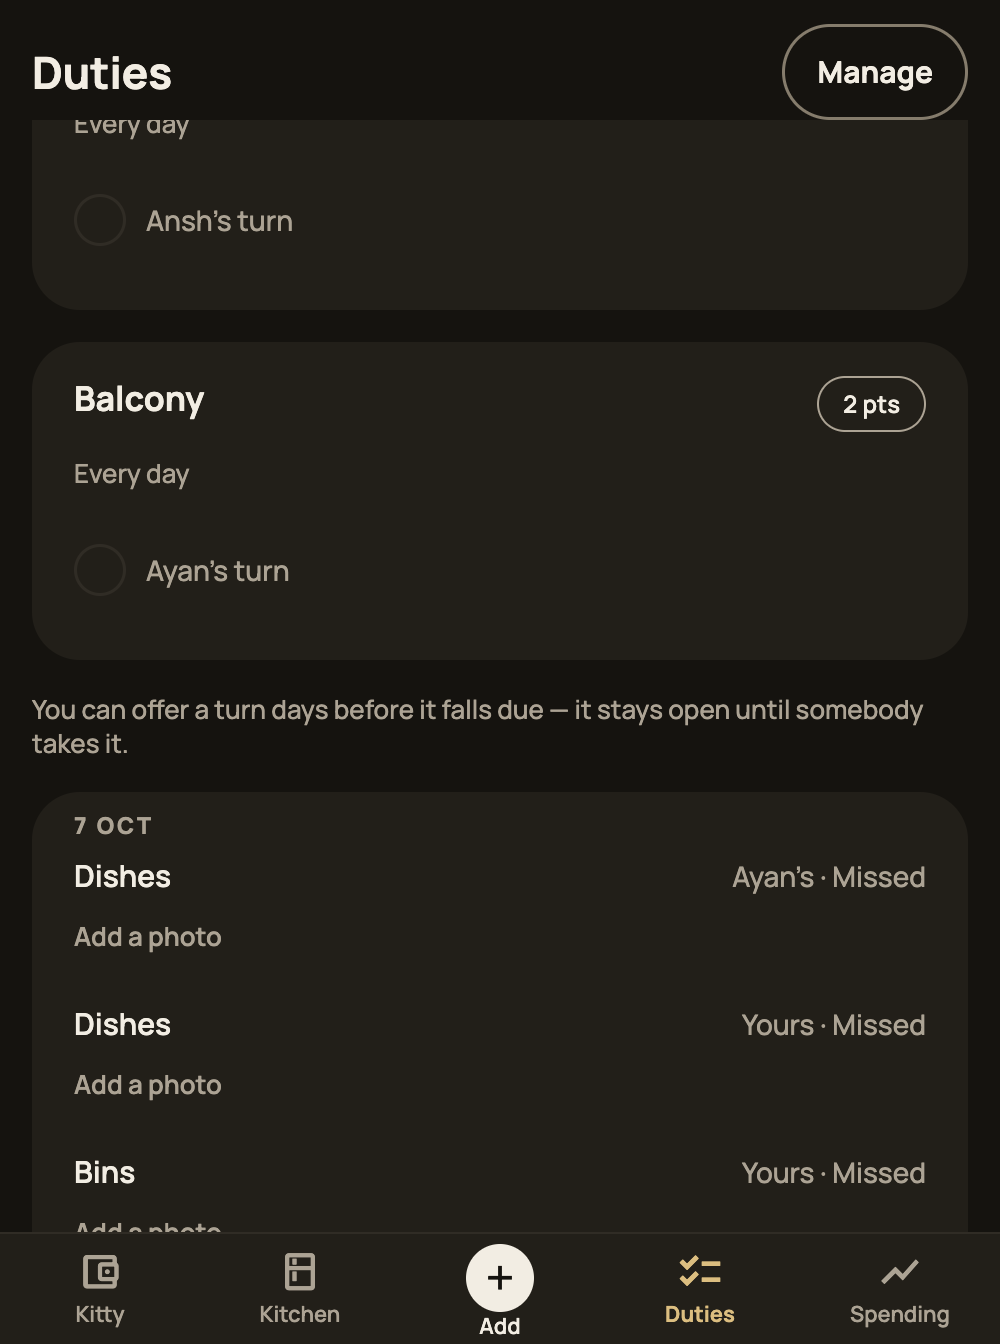
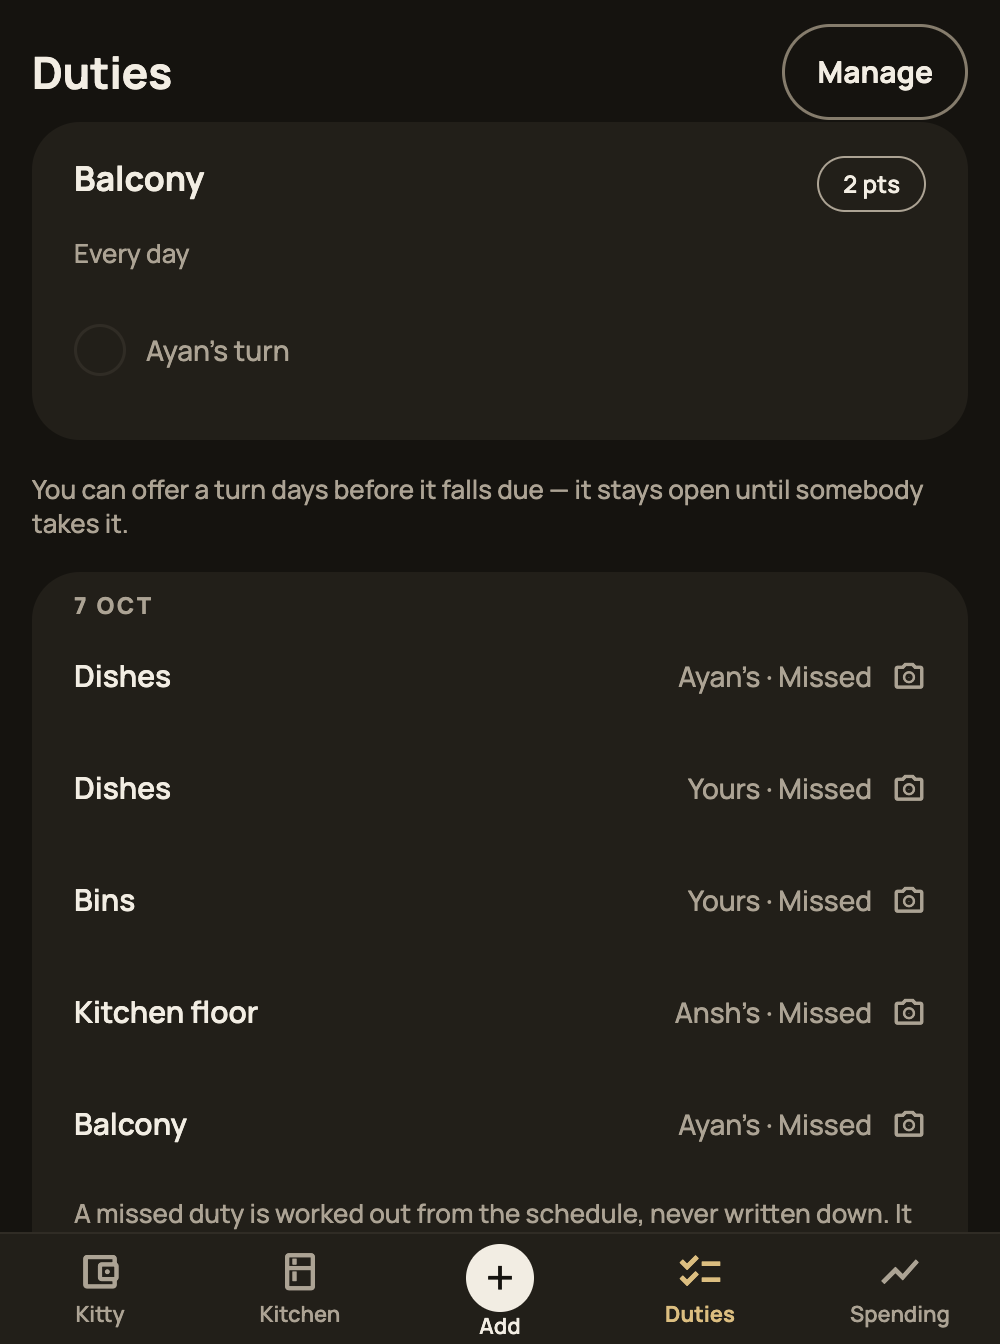
B4: every control on Duties is a real 48pt pill, not a text target wearing a label
B0 was right about the pattern it suspected: the old Skip and Swap were 48pt Pressables with a
transparent fill and NO border, and my first pass inherited half of that — a 44pt chip and an
"Add a photo" that was an icon and a word. DESIGN.md rule 7 wants at least 48pt and a pill, so
Done, Offer, Take it, Vouch and the photo all go through one Chip now, with a real `line` border
(3:1+) on the quiet ones. The reorder Edit toggle and the up/down buttons were 44pt too.

The missed block keeps its own grammar: a pill under every row turned a record of what nobody did
into five loud buttons, so the ROW is the control there, 56pt with a trailing camera, the way
kit's Row works. Edit-the-order is a button with an expanded state, not a checkbox.

Six screenshots re-shot. Also rebased onto db94f35, B0's amended tip — my diff touches none of
its three files.

diff --git a/src/app/(tabs)/duties.tsx b/src/app/(tabs)/duties.tsx
@@ -23,6 +23,7 @@ import { Block, ErrorText, Icon, Pill, Rule, Screen, SectionLabel, T, TAB_BAR, T
 const AHEAD = 4; // today plus the next three days: an offer has to work on a duty due on Thursday
 const BACK = 1; // yesterday, so a missed duty is stated once and then left alone
 const OFFER_ICON = { ios: 'arrow.up.circle', android: 'arrow_upward' };
+const CAMERA = { ios: 'camera', android: 'photo_camera' };
 
 const shift = (date: string, days: number) => new Date(Date.parse(date) + days * 86_400_000).toISOString().slice(0, 10);
 const list = (names: string[]) =>
@@ -293,20 +294,15 @@ export default function Duties() {
           </T>
         )}
         {when !== 'future' && (
-          <Pressable
-            accessibilityRole="button"
-            accessibilityLabel={`Add a photo to ${r.duty.name}, ${dayLabel(r.date)}`}
-            disabled={busy === `${card}:photo`}
-            onPress={() => addPhoto(r, slot)}
-            style={({ pressed }) => [
-              { flexDirection: 'row', alignItems: 'center', gap: 6, minHeight: 44 },
-              pressed && { opacity: 0.6 },
-            ]}>
-            <Icon name={{ ios: 'camera', android: 'photo_camera' }} size={16} color={c.muted} />
-            <T size={13} weight="600" soft>
-              {busy === `${card}:photo` ? 'Adding…' : 'Add a photo'}
-            </T>
-          </Pressable>
+          <View style={{ flexDirection: 'row' }}>
+            <Chip
+              label="Add a photo"
+              icon={CAMERA}
+              busy={busy === `${card}:photo`}
+              accessibilityLabel={`Add a photo to ${r.duty.name}, ${dayLabel(r.date)}`}
+              onPress={() => addPhoto(r, slot)}
+            />
+          </View>
         )}
         {toast?.card === card && <Toast message={toast.message} onUndo={toast.undo} style={{ marginTop: 2 }} />}
       </View>
@@ -320,28 +316,28 @@ export default function Duties() {
       (p) => p.duty_id === r.duty.id && p.due_on === r.date && p.member_id === slot.ownerId,
     );
     return (
-      <View key={card} style={{ gap: 2, paddingVertical: 8 }}>
-        <View style={{ flexDirection: 'row', alignItems: 'center', gap: 10 }}>
+      <View key={card}>
+        {/* The ROW is the control, in kit's list-row grammar with a trailing icon — five chunky
+            pills down a record of what nobody did turns a fact into an accusation. ≥56pt, so it
+            clears the 48pt target rule without raising its voice. */}
+        <Pressable
+          accessibilityRole="button"
+          accessibilityLabel={`${r.duty.name}, ${first(slot.holderId) === 'you' ? 'your turn' : `${first(slot.holderId)}'s turn`}, missed. Add a photo`}
+          disabled={busy === `${card}:photo`}
+          onPress={() => addPhoto(r, slot)}
+          style={({ pressed }) => [
+            { flexDirection: 'row', alignItems: 'center', gap: 10, minHeight: 56 },
+            pressed && { opacity: 0.6 },
+          ]}>
           <T size={15} weight="600" style={{ flex: 1 }}>
             {r.duty.name}
           </T>
           <T size={14} soft>
-            {`${first(slot.holderId) === 'you' ? 'Yours' : `${first(slot.holderId)}’s`} · Missed`}
-          </T>
-        </View>
-        <Pressable
-          accessibilityRole="button"
-          accessibilityLabel={`Add a photo to ${r.duty.name}, ${dayLabel(r.date)}`}
-          disabled={busy === `${card}:photo`}
-          onPress={() => addPhoto(r, slot)}
-          style={({ pressed }) => [{ minHeight: 36, justifyContent: 'center' }, pressed && { opacity: 0.6 }]}>
-          <T size={13} weight="600" soft>
             {busy === `${card}:photo`
               ? 'Adding…'
-              : photos.length
-                ? `${photos.length} ${photos.length === 1 ? 'photo' : 'photos'} · add another`
-                : 'Add a photo'}
+              : `${first(slot.holderId) === 'you' ? 'Yours' : `${first(slot.holderId)}’s`} · Missed${photos.length ? ` · ${photos.length}` : ''}`}
           </T>
+          <Icon name={CAMERA} size={17} color={c.muted} />
         </Pressable>
         {toast?.card === card && <Toast message={toast.message} onUndo={toast.undo} />}
       </View>
@@ -555,9 +551,16 @@ function Ring({ state }: { state: 'yours' | 'theirs' | 'done' | 'missed' | 'offe
   );
 }
 
-/** A small action pill, 44pt. kit's MagnetButton is 56pt and full width; two of these share a row. */
+/**
+ * A small action pill. kit's MagnetButton is 56pt and full width; two or three of these share a row.
+ * Every control on this screen goes through here, so DESIGN.md rule 7 — targets of at least 48pt,
+ * and every button a pill — holds for Done, Offer, Take it, Vouch and the photo alike. A quiet one
+ * still carries a real `line` border (3:1+): nothing here is a bare text target pretending to be a
+ * button, which is what the old Skip and Swap were.
+ */
 function Chip({
   label,
+  icon,
   strong,
   accent,
   busy,
@@ -565,6 +568,7 @@ function Chip({
   onPress,
 }: {
   label: string;
+  icon?: { ios: string; android: string };
   strong?: boolean;
   accent?: boolean;
   busy?: boolean;
@@ -583,17 +587,20 @@ function Chip({
       onPress={onPress}
       style={({ pressed }) => [
         {
-          minHeight: 44,
+          minHeight: 48,
           paddingHorizontal: 16,
-          borderRadius: 22,
+          borderRadius: 24,
+          flexDirection: 'row',
+          gap: 7,
           alignItems: 'center',
           justifyContent: 'center',
           backgroundColor: fill,
-          borderWidth: strong || accent ? 0 : 1.5,
-          borderColor: c.line,
+          borderWidth: 1.5,
+          borderColor: strong || accent ? fill : c.line,
         },
         pressed && { transform: [{ scale: 0.97 }] },
       ]}>
+      {icon && <Icon name={icon} size={16} color={fg} />}
       <T size={14} weight="700" color={fg}>
         {busy ? 'Saving…' : label}
       </T>

diff --git a/src/app/duties/edit.tsx b/src/app/duties/edit.tsx
@@ -272,16 +272,15 @@ export default function EditDuty() {
         <>
           <View style={{ flexDirection: 'row', alignItems: 'center', justifyContent: 'space-between' }}>
             <SectionLabel>The order</SectionLabel>
-            <Pressable
-              accessibilityRole="button"
-              accessibilityState={{ expanded: reorder }}
-              accessibilityLabel={reorder ? 'Done reordering' : 'Edit the order'}
+            {/* A pill, not a bare word: DESIGN.md rule 7 wants 48pt and a real button. It is a
+                button that opens a mode, not a set toggle, so it keeps the button role. */}
+            <Day
+              label={reorder ? 'Done' : 'Edit'}
+              on={reorder}
               onPress={() => setReorder(!reorder)}
-              style={({ pressed }) => [{ minHeight: 44, justifyContent: 'center' }, pressed && { opacity: 0.6 }]}>
-              <T size={14} weight="700">
-                {reorder ? 'Done' : 'Edit'}
-              </T>
-            </Pressable>
+              role="button"
+              a11yLabel={reorder ? 'Done reordering' : 'Edit the order'}
+            />
           </View>
           <Block style={{ gap: 0, paddingVertical: 4 }}>
             {inRoster.map((rid, i) => (
@@ -344,13 +343,25 @@ const swap = (xs: string[], a: number, b: number) => {
 };
 
 /** A toggle, 48pt. kit's Choice is single-select and both weekdays and the roster are sets. */
-function Day({ label, on, onPress }: { label: string; on: boolean; onPress: () => void }) {
+function Day({
+  label,
+  on,
+  onPress,
+  role = 'checkbox',
+  a11yLabel,
+}: {
+  label: string;
+  on: boolean;
+  onPress: () => void;
+  role?: 'checkbox' | 'button';
+  a11yLabel?: string;
+}) {
   const c = usePalette();
   return (
     <Pressable
-      accessibilityRole="checkbox"
-      accessibilityState={{ checked: on }}
-      accessibilityLabel={label}
+      accessibilityRole={role}
+      accessibilityState={role === 'checkbox' ? { checked: on } : { expanded: on }}
+      accessibilityLabel={a11yLabel ?? label}
       onPress={onPress}
       style={({ pressed }) => [
         {
@@ -400,9 +411,9 @@ function Move({
       onPress={onPress}
       style={({ pressed }) => [
         {
-          width: 44,
-          height: 44,
-          borderRadius: 22,
+          width: 48,
+          height: 48,
+          borderRadius: 24,
           alignItems: 'center',
           justifyContent: 'center',
           borderWidth: 1.5,
